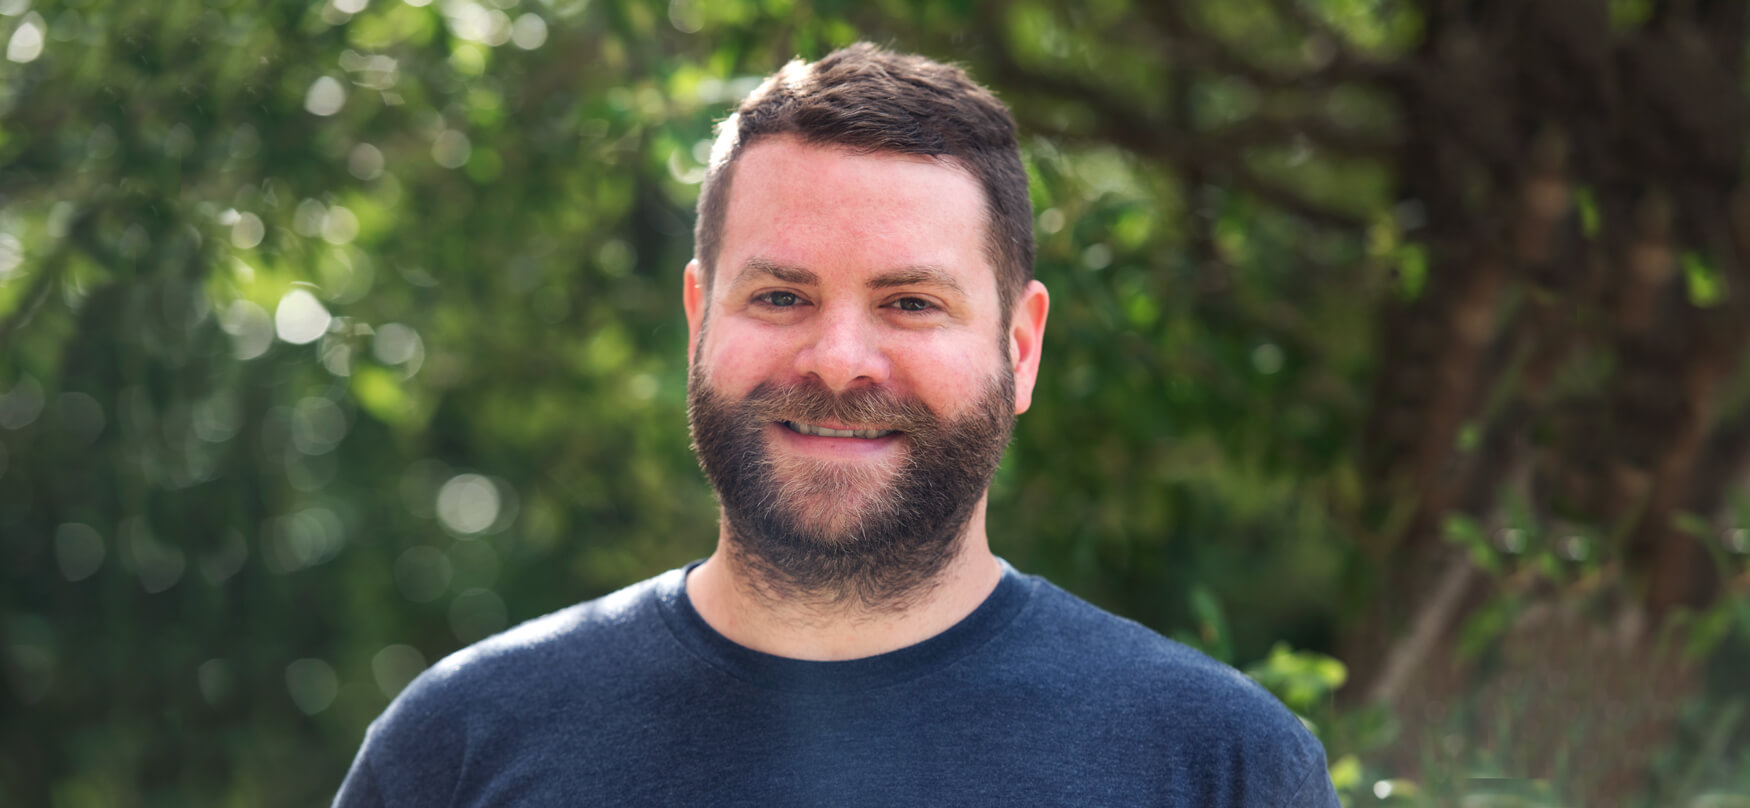
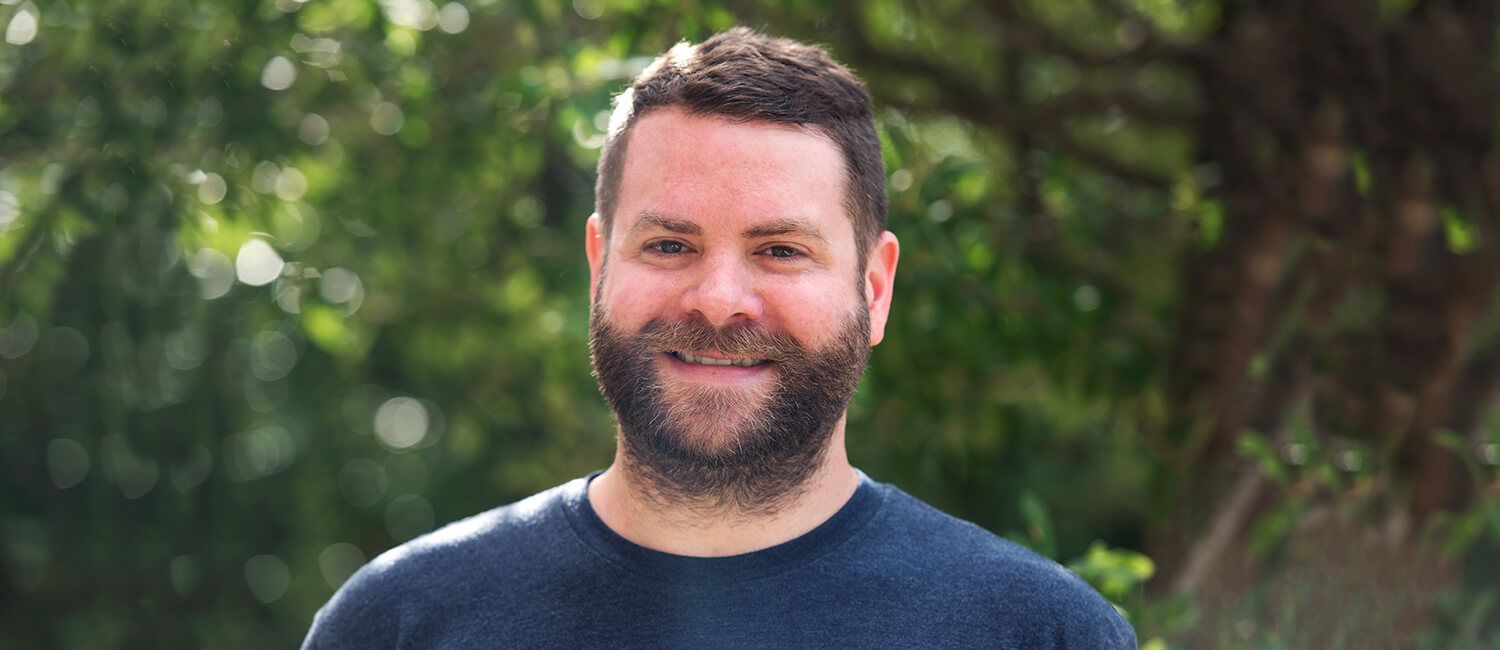
optimized portrait image, some mobile fixes

diff --git a/css/main.css b/css/main.css
@@ -259,7 +259,7 @@ a.offscreen:focus, a.offscreen:active, a.offscreen:hover {position: absolute; le
 	.main-area ul, .main-area ol {padding-left: 3.5rem;}
 	.main-area .button {margin-right: 1rem;}
 	.main-area .contact-info {margin-left: 1rem;}
-	.main-area .portrait {float: none; width: 100vw; height: 100%; left: 50%; right: 50%; margin: -1rem -50vw 2rem; border-width: 0 0 4px 0; border-radius: 0;}
+	.main-area .portrait {position: relative; width: 100vw; left: 50%; right: 50%; margin-top: -0.3rem; margin-left: -50vw;}
 	.main-area .tags {margin-top: -1rem;}
 	.main-area .image-group {width: 100%;}
 	.main-area .project-brief {font-size: 2.2rem;}
